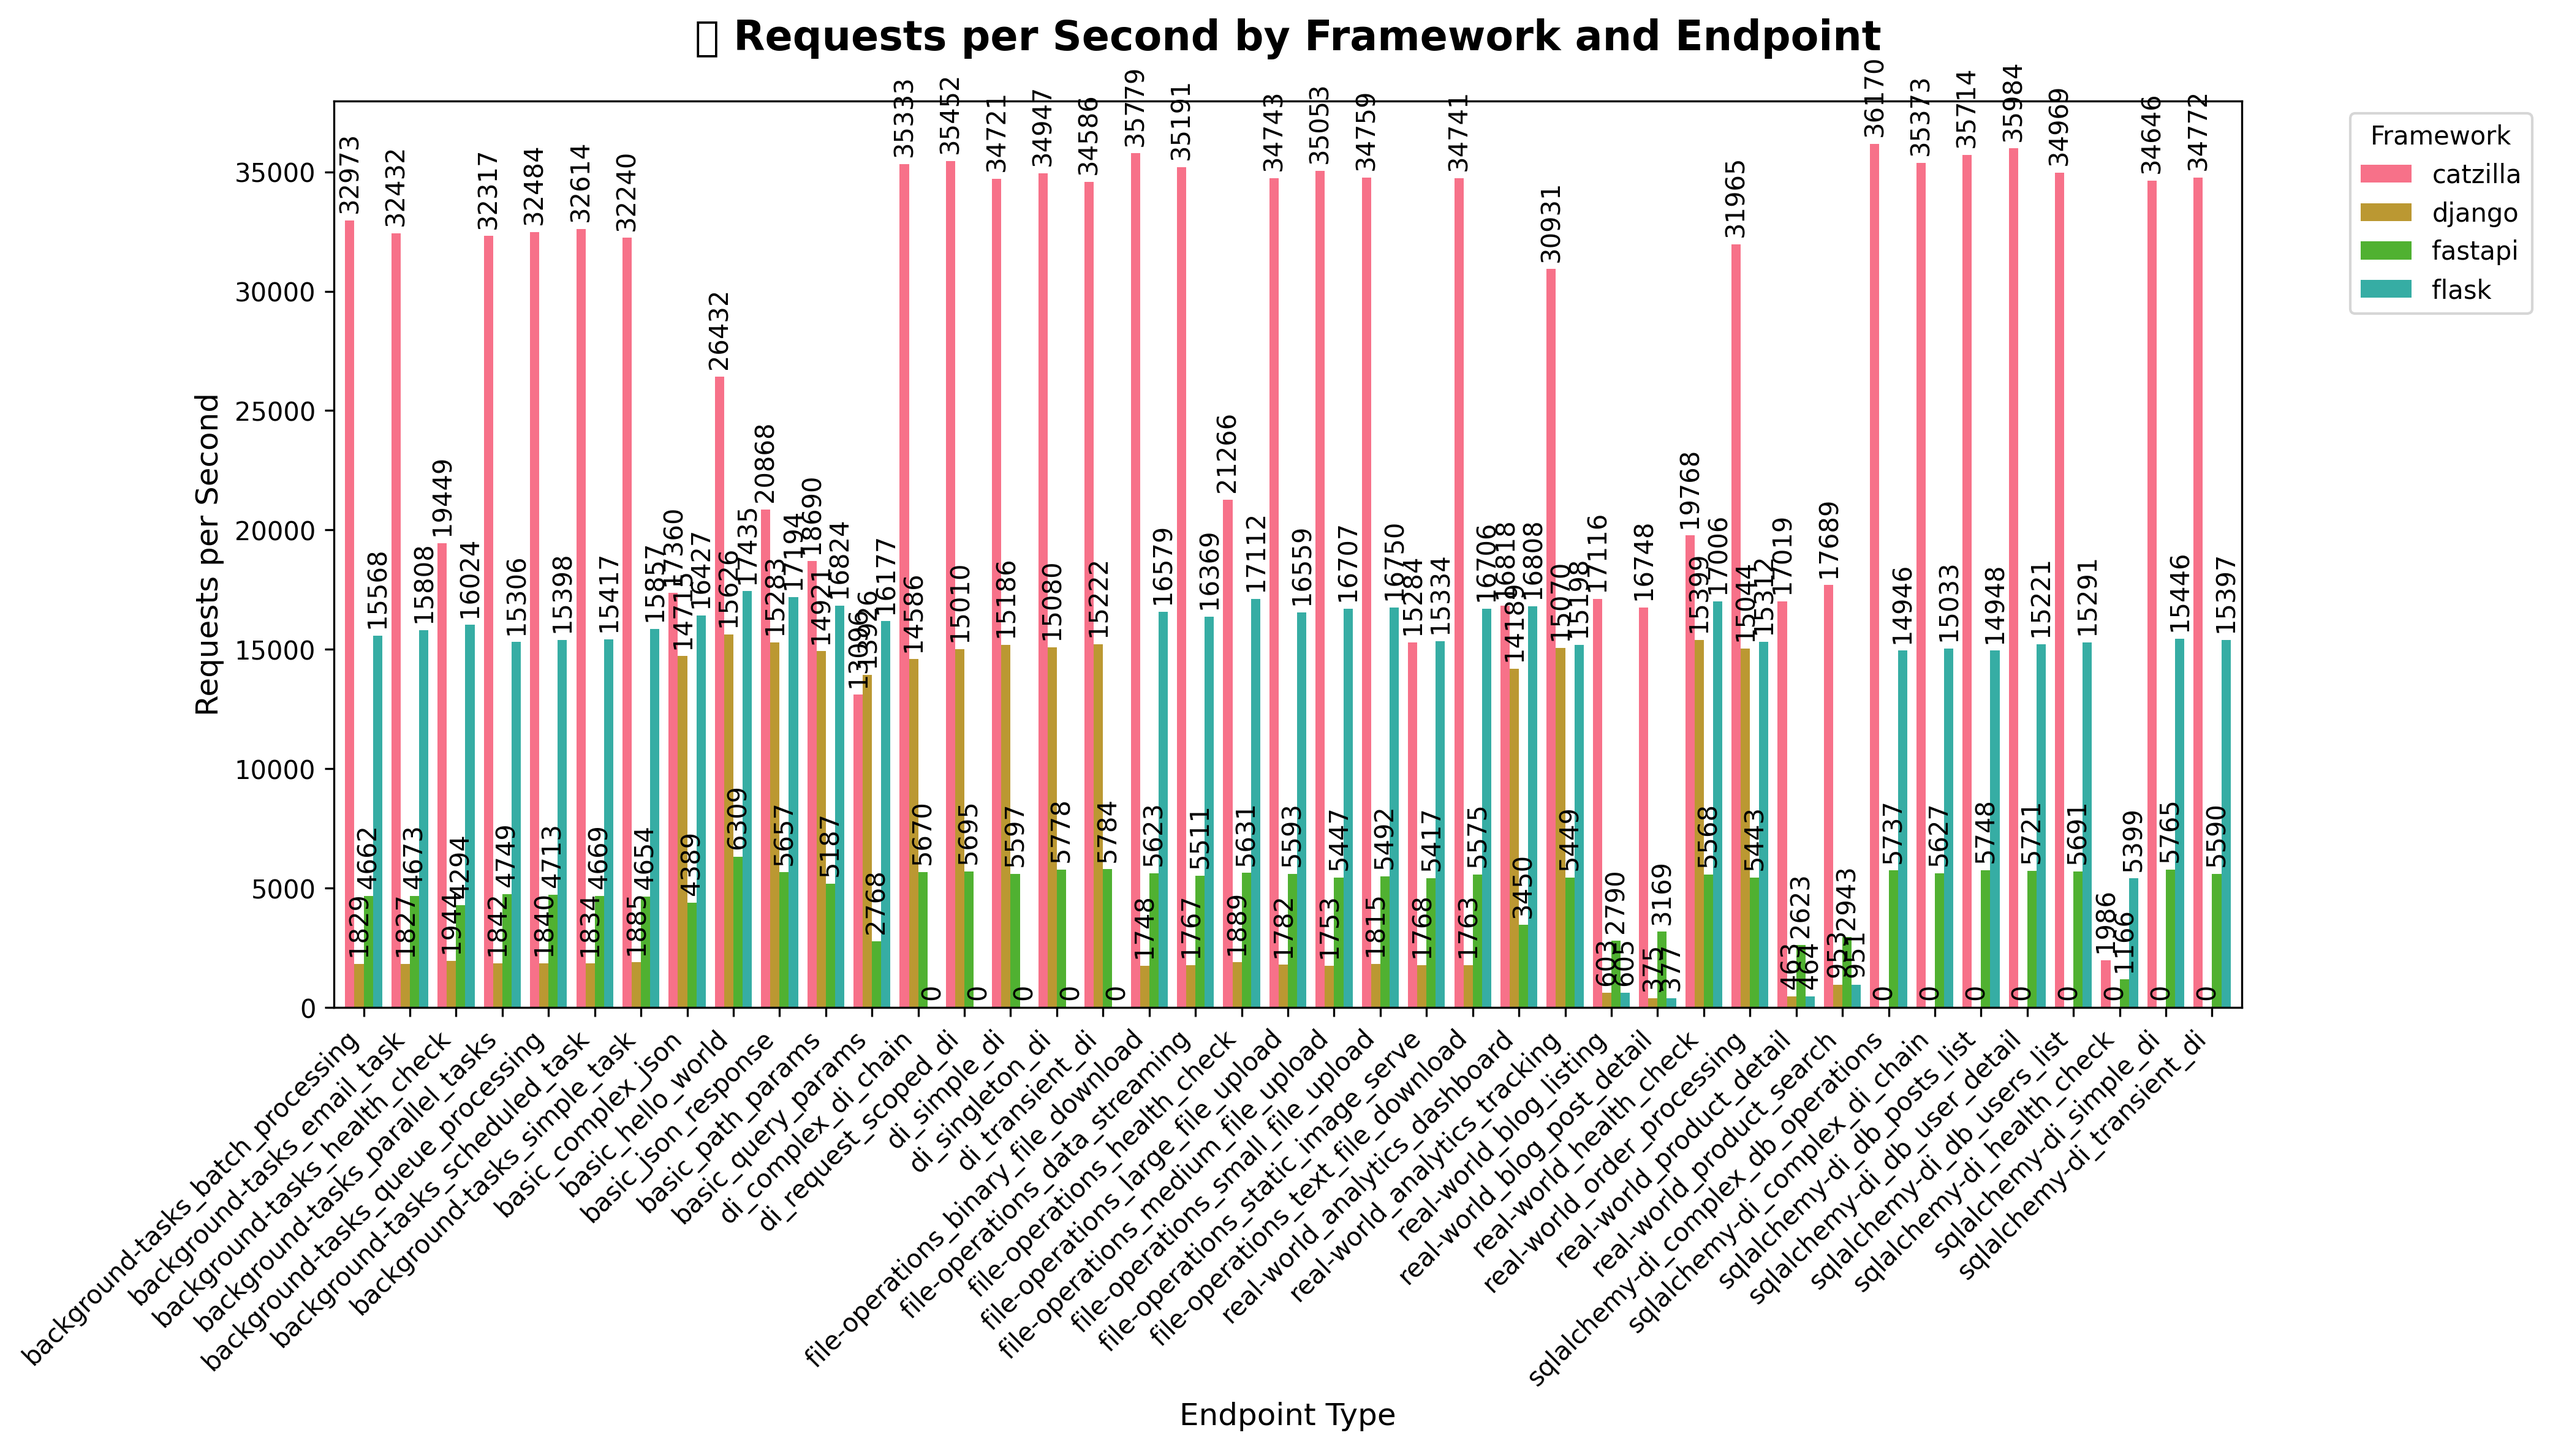
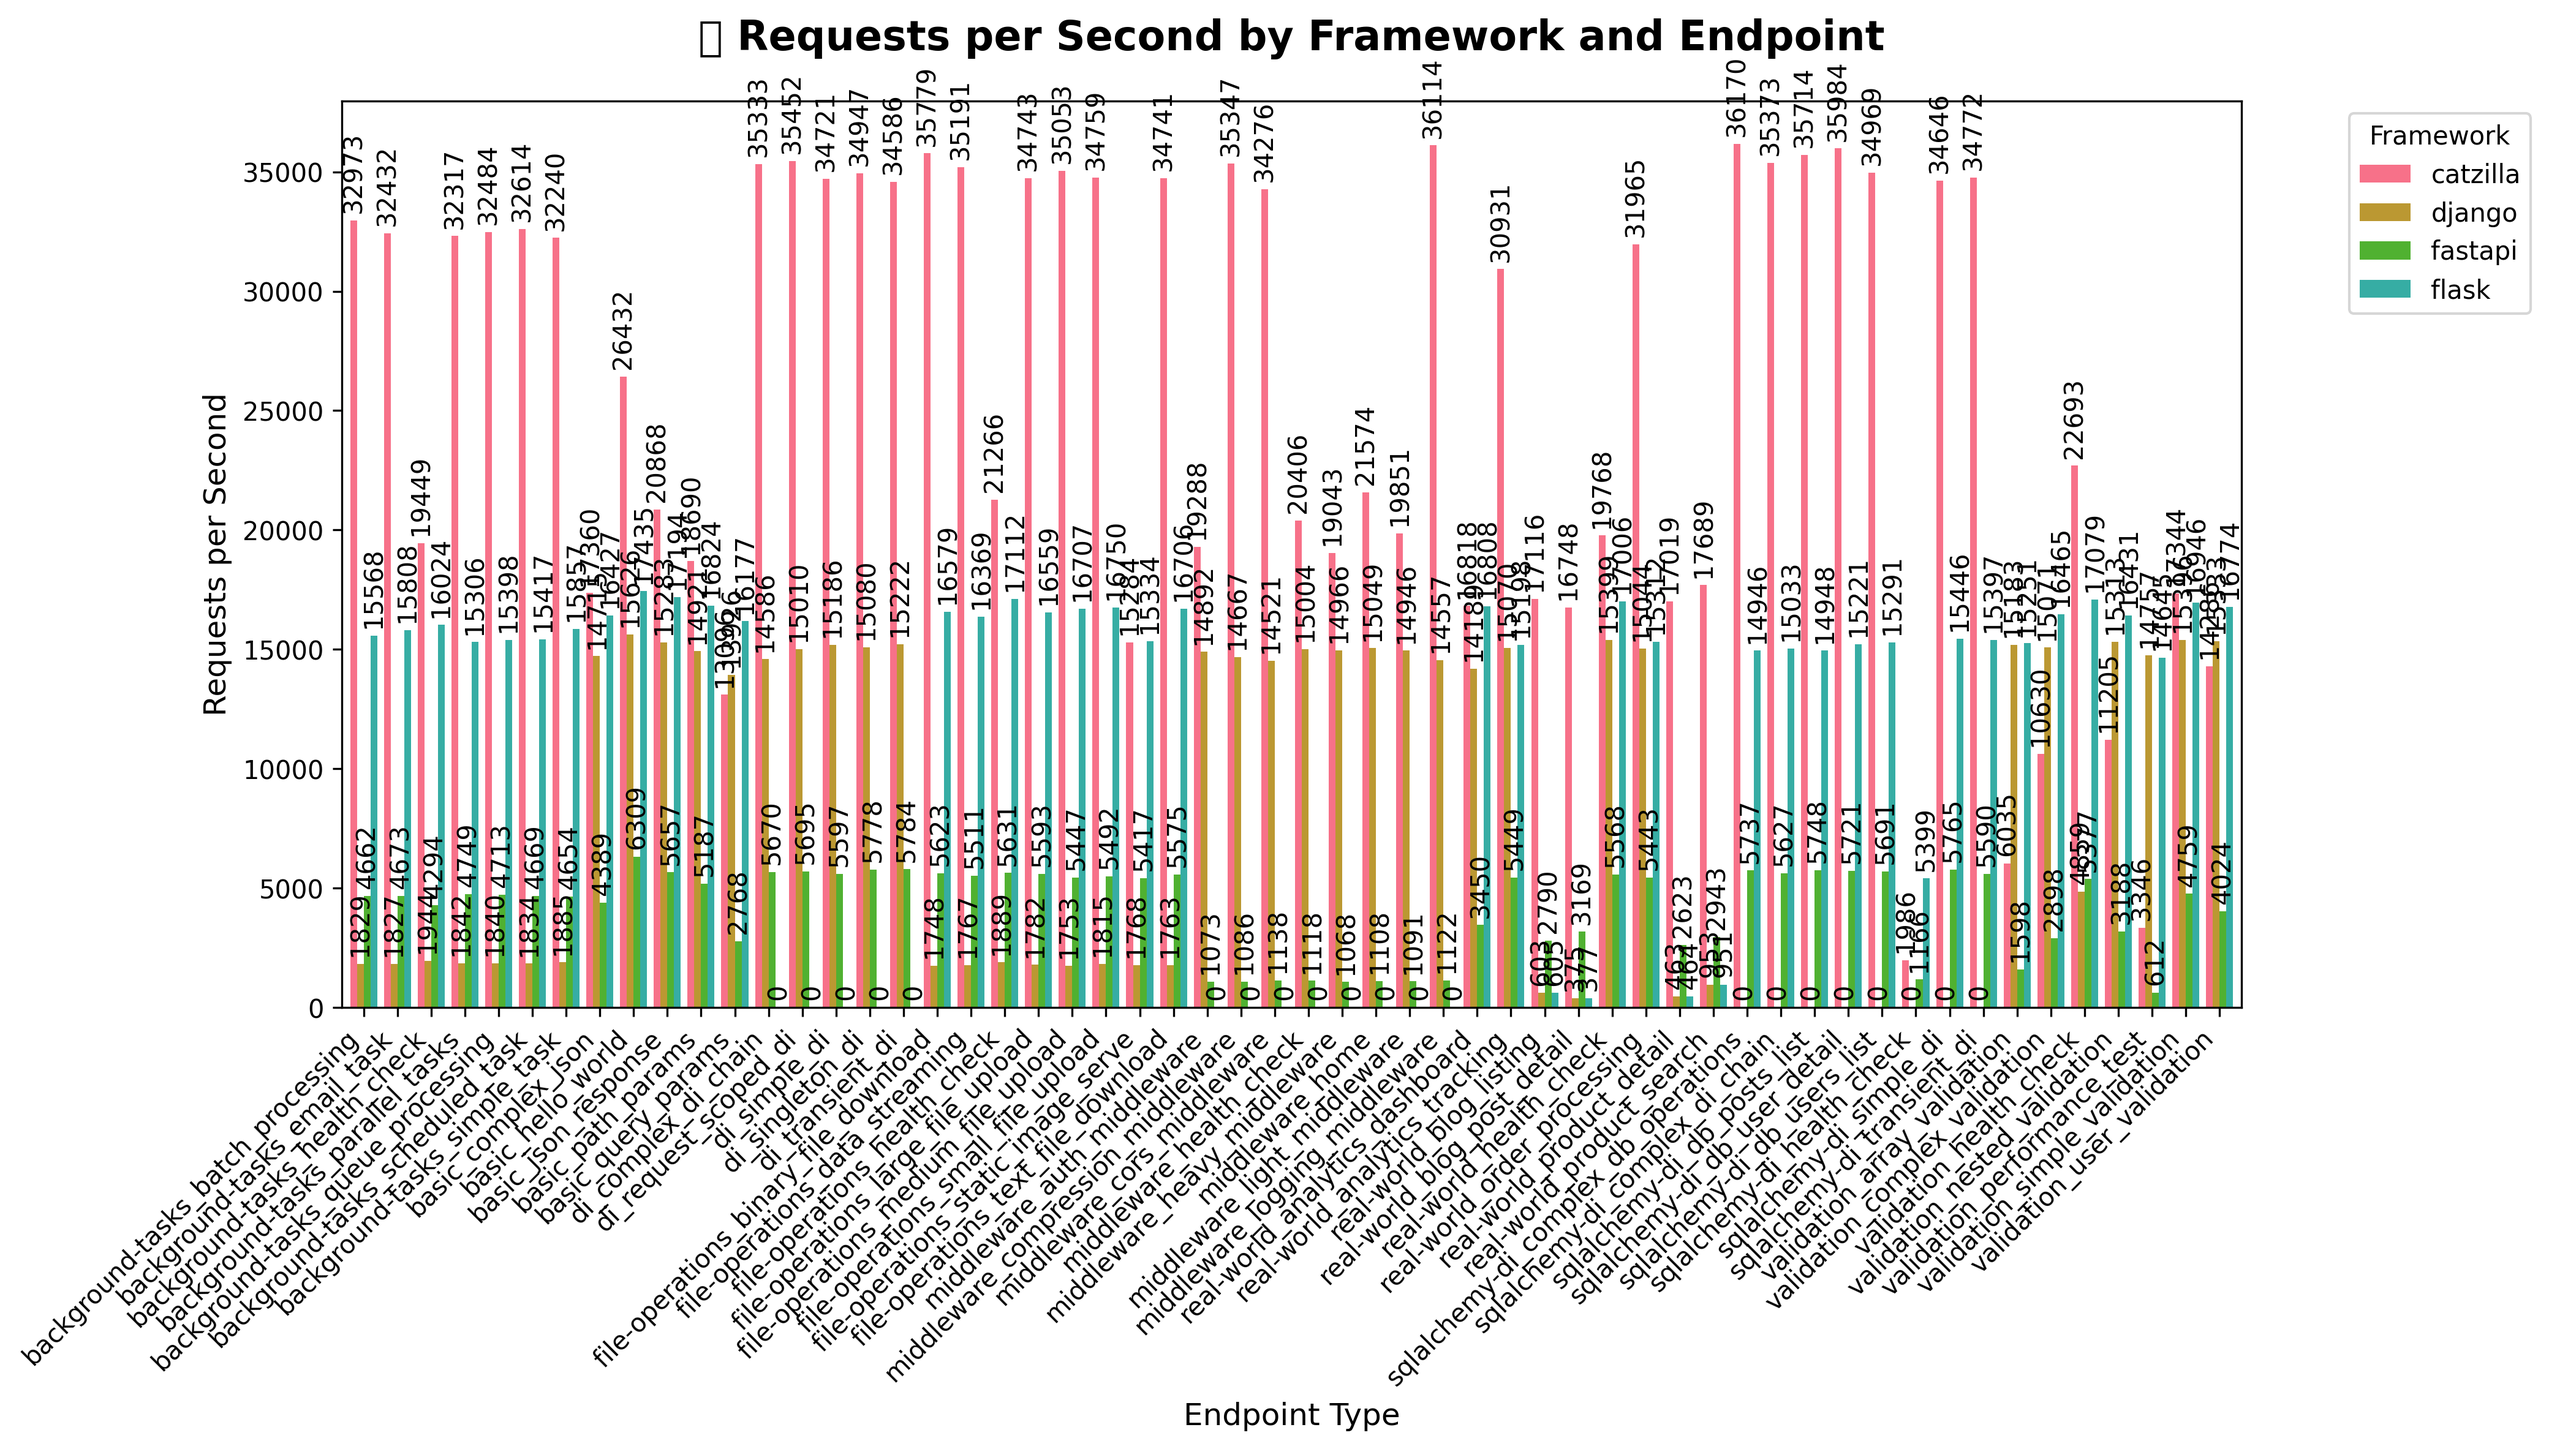
added:benchmark analysis images

Changed region(s): [[0.0312, 0.0, 0.8748, 0.9565], [0.4686, 0.9256, 0.5624, 0.9873], [0.5936, 0.9256, 0.6248, 0.9565]]

diff --git a/benchmarks/results/transparent_performance_report.md b/benchmarks/results/transparent_performance_report.md
@@ -1,14 +1,14 @@
 # 🚀 Catzilla Framework - Transparent Performance Report
-Generated: 2025-08-21 06:26:46
+Generated: 2025-08-21 07:35:17
 
 ## 📋 Executive Summary
 
 This report provides a transparent, feature-by-feature comparison of Catzilla
 against leading Python web frameworks (FastAPI, Flask, Django).
 
-- **Total Benchmarks**: 151
+- **Total Benchmarks**: 203
 - **Frameworks Tested**: catzilla, django, fastapi, flask
-- **Feature Categories**: 6
+- **Feature Categories**: 8
 
 ## 🎯 Feature-by-Feature Analysis
 
@@ -70,6 +70,19 @@ against leading Python web frameworks (FastAPI, Flask, Django).
 - **457.3% faster** than Fastapi
 - **86.8% faster** than Flask
 
+### Middleware
+
+| Framework | Avg RPS | Max RPS | Avg Latency (ms) | Min Latency (ms) |
+|-----------|---------|---------|------------------|------------------|
+| Catzilla | 25737 | 36114 | 4.38 | 2.92 |
+| Django | 14825 | 15049 | 6.66 | 6.48 |
+| Fastapi | 1100 | 1138 | 90.28 | 87.24 |
+
+**Catzilla Performance Advantage:**
+
+- **73.6% faster** than Django
+- **2239.1% faster** than Fastapi
+
 ### Real-World
 
 | Framework | Avg RPS | Max RPS | Avg Latency (ms) | Min Latency (ms) |
@@ -98,14 +111,31 @@ against leading Python web frameworks (FastAPI, Flask, Django).
 - **508.1% faster** than Fastapi
 - **123.5% faster** than Flask
 
+### Validation
+
+| Framework | Avg RPS | Max RPS | Avg Latency (ms) | Min Latency (ms) |
+|-----------|---------|---------|------------------|------------------|
+| Catzilla | 12220 | 22693 | 11.97 | 4.81 |
+| Django | 13702 | 15396 | 8.40 | 6.25 |
+| Fastapi | 3208 | 5377 | 50.55 | 18.58 |
+| Flask | 16227 | 17079 | 5.95 | 5.45 |
+
+**Catzilla Performance Advantage:**
+
+- **10.8% slower** than Django
+- **280.9% faster** than Fastapi
+- **24.7% slower** than Flask
+
 ## 🏆 Top Performers by Category
 
 - **Background-Tasks**: Catzilla (32973 RPS)
 - **Basic**: Catzilla (26432 RPS)
 - **Di**: Catzilla (35452 RPS)
 - **File-Operations**: Catzilla (35779 RPS)
+- **Middleware**: Catzilla (36114 RPS)
 - **Real-World**: Catzilla (31965 RPS)
 - **Sqlalchemy-Di**: Catzilla (36170 RPS)
+- **Validation**: Catzilla (22693 RPS)
 
 ## 📊 Visualization Files
 
@@ -123,8 +153,10 @@ The following charts have been generated for detailed analysis:
 - `basic_performance_analysis.png` - Basic detailed analysis
 - `di_performance_analysis.png` - Di detailed analysis
 - `file_operations_performance_analysis.png` - File-Operations detailed analysis
+- `middleware_performance_analysis.png` - Middleware detailed analysis
 - `real_world_performance_analysis.png` - Real-World detailed analysis
 - `sqlalchemy_di_performance_analysis.png` - Sqlalchemy-Di detailed analysis
+- `validation_performance_analysis.png` - Validation detailed analysis
 
 ---
 *This report is automatically generated by the Catzilla Transparent Benchmarking System*
